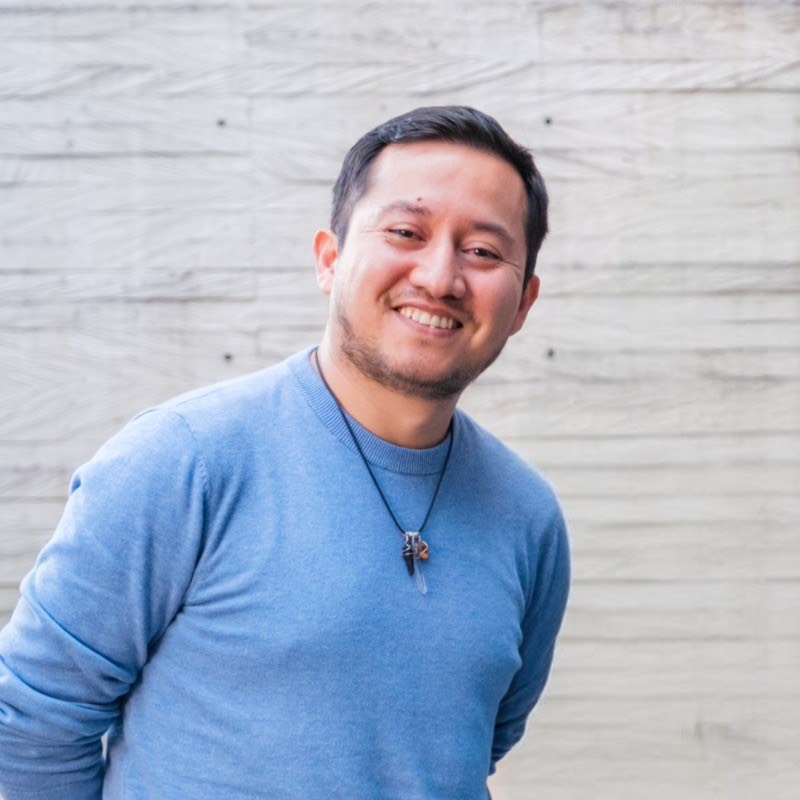
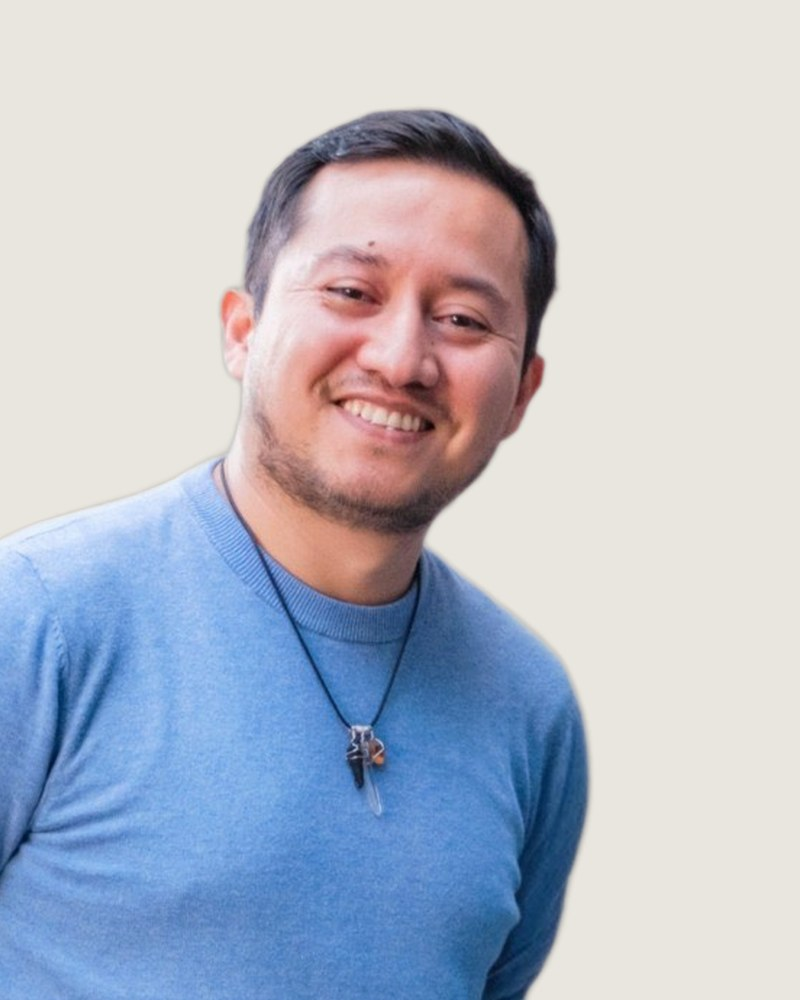
Fotos del equipo sin fondo, con el mismo encuadre y fondo arena
Claude-Session: https://claude.ai/code/session_0138EnzZ7bdWq8Pg4TRpKNPT

diff --git a/app/(site)/estilos/componentes.css b/app/(site)/estilos/componentes.css
@@ -110,7 +110,7 @@
   .trio { display: grid; grid-template-columns: minmax(0, 1fr); gap: 40px; }
   @media (min-width: 860px) { .trio { grid-template-columns: repeat(3, minmax(0, 1fr)); gap: 32px; } }
   .pc { display: grid; gap: 18px; align-content: start; }
-  .pc .ph-img { aspect-ratio: 4 / 5; width: 100%; overflow: hidden; background: var(--salvia-claro); position: relative; border-radius: var(--radio-tarjeta); }
+  .pc .ph-img { aspect-ratio: 4 / 5; width: 100%; overflow: hidden; background: #e9e6df; position: relative; border-radius: var(--radio-tarjeta); }
   .pc .ph-img img { width: 100%; height: 100%; object-fit: cover; display: block; }
   .pc .body { display: grid; gap: 12px; border-top: 1px solid var(--linea-2); padding-top: 18px; }
   .pc-cabeza { display: grid; gap: 4px; }
@@ -122,7 +122,7 @@
   @media (min-width: 860px) { .mini-team { grid-template-columns: repeat(3, minmax(0, 1fr)); gap: 32px; } }
   .mt { display: grid; grid-template-columns: 72px 1fr; gap: 18px; align-items: center; border-top: 1px solid var(--linea-2); padding-top: 20px; }
   .mt .avw { width: 72px; height: 72px; overflow: hidden; border-radius: 50%; background: var(--arena); }
-  .mt .avw img { width: 100%; height: 100%; object-fit: cover; }
+  .mt .avw img { width: 100%; height: 100%; object-fit: cover; object-position: 50% 0; transform: scale(1.7); transform-origin: 50% 24%; }
 
   /* Fotos sueltas */
   .ph-fig { position: relative; overflow: hidden; container-type: inline-size; }
